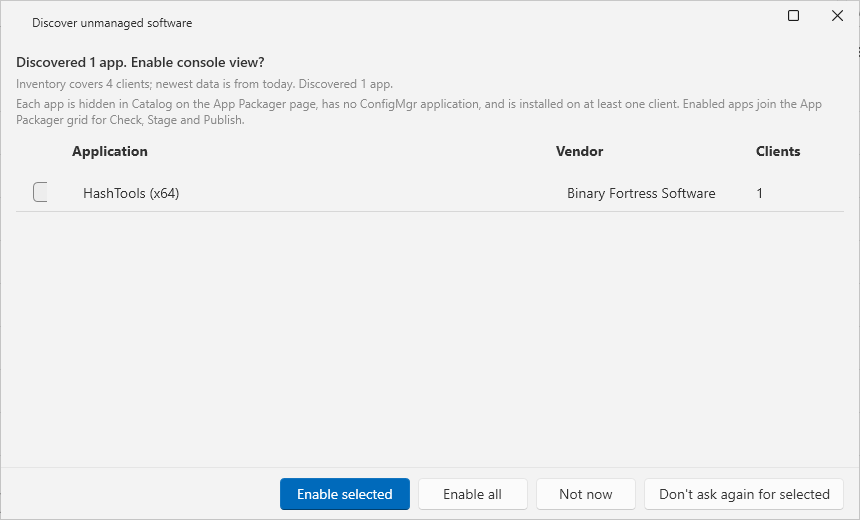
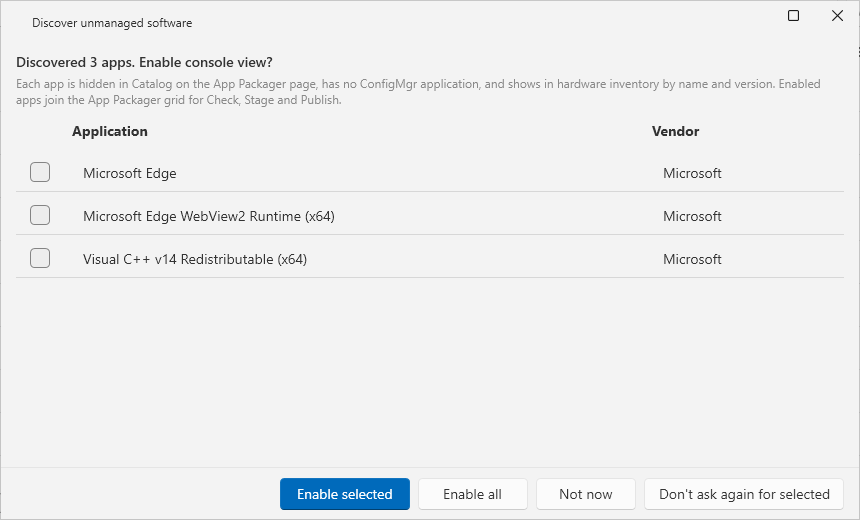
Fix four UI defects found in the screenshot audit and retake the guide images that show changed windows

diff --git a/src/ApplicationPackagerUI/Views/Windows/DiscoveryWindow.xaml b/src/ApplicationPackagerUI/Views/Windows/DiscoveryWindow.xaml
@@ -24,7 +24,8 @@
             <TextBlock x:Name="txtPrompt" Text="{Binding PromptText}" FontSize="14" FontWeight="SemiBold" TextWrapping="Wrap"
                        AutomationProperties.AutomationId="txtDiscoverPrompt" Foreground="{DynamicResource TextFillColorPrimaryBrush}" />
             <TextBlock x:Name="txtStatus" Text="{Binding StatusText}" FontSize="12" TextWrapping="Wrap" Margin="0,4,0,0"
-                       AutomationProperties.AutomationId="txtDiscoverStatus" Foreground="{DynamicResource TextFillColorSecondaryBrush}" />
+                       AutomationProperties.AutomationId="txtDiscoverStatus" Foreground="{DynamicResource TextFillColorSecondaryBrush}"
+                       Visibility="{Binding HasStatus, Converter={StaticResource BooleanToVisibilityConverter}}" />
             <TextBlock FontSize="12" TextWrapping="Wrap" Margin="0,4,0,0" Foreground="{DynamicResource TextFillColorSecondaryBrush}"
                        Text="Each app is hidden in Catalog on the App Packager page, has no ConfigMgr application, and shows in hardware inventory by name and version. Enabled apps join the App Packager grid for Check, Stage and Publish." />
             <TextBlock x:Name="txtNote" Text="{Binding NoteText}" FontSize="12" TextWrapping="Wrap" Margin="0,4,0,0"
@@ -46,6 +47,20 @@
                             <Setter Property="AutomationProperties.Name" Value="Include" />
                         </Style>
                     </DataGridTemplateColumn.HeaderStyle>
+                    <!-- The default cell clips the check box in a 48 px column. The cell centers its content and clips nothing. -->
+                    <DataGridTemplateColumn.CellStyle>
+                        <Style TargetType="DataGridCell" BasedOn="{StaticResource {x:Type DataGridCell}}">
+                            <Setter Property="Template">
+                                <Setter.Value>
+                                    <ControlTemplate TargetType="DataGridCell">
+                                        <Grid Background="Transparent">
+                                            <ContentPresenter HorizontalAlignment="Center" VerticalAlignment="Center" />
+                                        </Grid>
+                                    </ControlTemplate>
+                                </Setter.Value>
+                            </Setter>
+                        </Style>
+                    </DataGridTemplateColumn.CellStyle>
                     <DataGridTemplateColumn.CellTemplate>
                         <DataTemplate>
                             <CheckBox IsChecked="{Binding Selected, UpdateSourceTrigger=PropertyChanged}" HorizontalAlignment="Center"

diff --git a/src/ApplicationPackagerUI/Views/Windows/ConvertFromCmWindow.xaml b/src/ApplicationPackagerUI/Views/Windows/ConvertFromCmWindow.xaml
@@ -75,11 +75,11 @@
                 <RowDefinition Height="2*" />
                 <RowDefinition Height="*" />
             </Grid.RowDefinitions>
-            <TextBox Grid.Row="0" Text="{Binding ReportText}" IsReadOnly="True" FontFamily="Consolas" FontSize="12"
+            <ui:TextBox Grid.Row="0" Text="{Binding ReportText}" IsReadOnly="True" PlaceholderText="The plan shows here after you select Preview." FontFamily="Consolas" FontSize="12"
                      TextWrapping="NoWrap" HorizontalScrollBarVisibility="Auto" VerticalScrollBarVisibility="Auto"
                      AcceptsReturn="True" Margin="0,0,0,8"
                      AutomationProperties.AutomationId="txtConvertReport" AutomationProperties.Name="Conversion report" />
-            <TextBox Grid.Row="1" Text="{Binding LogText}" IsReadOnly="True" FontFamily="Consolas" FontSize="12"
+            <ui:TextBox Grid.Row="1" Text="{Binding LogText}" IsReadOnly="True" PlaceholderText="The progress of each step shows here." FontFamily="Consolas" FontSize="12"
                      TextWrapping="NoWrap" HorizontalScrollBarVisibility="Auto" VerticalScrollBarVisibility="Auto"
                      AcceptsReturn="True"
                      AutomationProperties.AutomationId="txtConvertLog" AutomationProperties.Name="Progress log" />

diff --git a/tests/ApplicationPackagerEngine.Tests/DiscoveryWindowTests.cs b/tests/ApplicationPackagerEngine.Tests/DiscoveryWindowTests.cs
@@ -87,6 +87,37 @@ public sealed class DiscoveryWindowTests
         });
     }
 
+    [Theory]
+    [InlineData(ApplicationTheme.Light)]
+    [InlineData(ApplicationTheme.Dark)]
+    public void TheCheckBoxOfARowIsNotClippedByItsCell(ApplicationTheme theme)
+    {
+        var gridMarkup = Named(Markup(), "gridDiscover").ToString();
+        var hostMarkup =
+            "<Grid xmlns=\"http://schemas.microsoft.com/winfx/2006/xaml/presentation\" xmlns:ui=\"http://schemas.lepo.co/wpfui/2022/xaml\">"
+            + "<Grid.Resources><ResourceDictionary><ResourceDictionary.MergedDictionaries>"
+            + $"<ui:ThemesDictionary Theme=\"{theme}\" /><ui:ControlsDictionary />"
+            + "</ResourceDictionary.MergedDictionaries></ResourceDictionary></Grid.Resources>"
+            + gridMarkup + "</Grid>";
+        RunSta(() =>
+        {
+            var host = (Grid)System.Windows.Markup.XamlReader.Parse(hostMarkup);
+            var grid = host.Children.OfType<DataGrid>().Single();
+            grid.ItemsSource = new DiscoveryDialogViewModel([new DiscoveryCandidate("a", "A", "V", "A app")], "").Rows;
+            host.Measure(new Size(600, 300));
+            host.Arrange(new Rect(0, 0, 600, 300));
+            host.UpdateLayout();
+
+            var box = Descendants(grid).OfType<System.Windows.Controls.CheckBox>().Single();
+            var cell = Descendants(grid).OfType<System.Windows.Controls.DataGridCell>().First(c => c.Column is DataGridTemplateColumn);
+            var bounds = box.TransformToAncestor(cell).TransformBounds(new Rect(0, 0, box.ActualWidth, box.ActualHeight));
+            Assert.True(bounds.Left >= 0 && bounds.Right <= cell.ActualWidth,
+                $"The check box spans {bounds.Left}..{bounds.Right} in a cell of width {cell.ActualWidth}.");
+            // The default cell template padded the box to 36 px and cut the 20 px glyph on the right; the centered cell gives it 42 px.
+            Assert.True(box.ActualWidth >= 40, $"The check box is {box.ActualWidth} px wide.");
+        });
+    }
+
     private static string Describe(System.Windows.Media.Brush? brush) => brush switch
     {
         null => "none",

diff --git a/tests/ApplicationPackagerEngine.Tests/Update/UpdateViewModelTests.cs b/tests/ApplicationPackagerEngine.Tests/Update/UpdateViewModelTests.cs
@@ -60,7 +60,7 @@ public sealed class UpdateViewModelTests : IDisposable
                 ? new HttpResponseMessage(HttpStatusCode.OK) { Content = new StringContent(sums) }
                 : new HttpResponseMessage(HttpStatusCode.OK) { Content = new ByteArrayContent(Setup) };
         });
-        var service = new UpdateService(handler, new Signature(new SignatureInfo(status, "CN=Jason Ulbright", true)),
+        var service = new UpdateService(handler, new Signature(new SignatureInfo(status, "CN=Jason Ulbright, O=Jason Ulbright, L=Apex, S=nc, C=US", true)),
             newFolder: () => Path.Combine(_root, Guid.NewGuid().ToString("N")));
         var vm = new UpdateViewModel(service, "2026.1103.3", path => { launched.Add(path); return launchWorks; }, () => shutdowns[0]++);
         return (vm, launched, shutdowns);
@@ -96,6 +96,10 @@ public sealed class UpdateViewModelTests : IDisposable
         Assert.Empty(launched);
         Assert.Equal(0, shutdowns[0]);
         Assert.True(vm.InstallCommand.CanExecute(null));
+        // The status names the signer, not the whole certificate subject (city, state, country).
+        Assert.Contains("Jason Ulbright signed the file", vm.StatusText);
+        Assert.DoesNotContain("O=", vm.StatusText);
+        Assert.DoesNotContain("Apex", vm.StatusText);
     }
 
     [Fact]

diff --git a/src/ApplicationPackagerUI/ViewModels/Windows/ConvertFromCmViewModel.cs b/src/ApplicationPackagerUI/ViewModels/Windows/ConvertFromCmViewModel.cs
@@ -73,6 +73,10 @@ public sealed partial class ConvertFromCmViewModel : ObservableObject
 
     private bool CanStart() => Idle && !string.IsNullOrWhiteSpace(ApplicationName);
 
+    /// <summary>The status line after a preview: "1 of 1 deployment type converts", "2 of 3 deployment types convert".</summary>
+    public static string PreviewStatus(int converting, int total) =>
+        $"Preview: {converting} of {total} deployment {(total == 1 ? "type converts" : "types convert")}. Nothing was written.";
+
     [RelayCommand(CanExecute = nameof(CanStart))]
     private async Task PreviewAsync()
     {
@@ -80,7 +84,7 @@ public sealed partial class ConvertFromCmViewModel : ObservableObject
         {
             var outcome = await _runner.PreviewAsync(Request(null), log, token);
             ReportText = outcome.Report;
-            StatusText = $"Preview: {outcome.Plan.DeploymentTypes.Count(d => d.Convert)} of {outcome.Plan.DeploymentTypes.Count} deployment types convert. Nothing was written.";
+            StatusText = PreviewStatus(outcome.Plan.DeploymentTypes.Count(d => d.Convert), outcome.Plan.DeploymentTypes.Count);
         });
     }
 

diff --git a/src/ApplicationPackagerUI/ViewModels/Windows/DiscoveryDialogViewModel.cs b/src/ApplicationPackagerUI/ViewModels/Windows/DiscoveryDialogViewModel.cs
@@ -41,6 +41,9 @@ public sealed partial class DiscoveryDialogViewModel : ObservableObject
     public string PromptText { get; }
     public string StatusText { get; }
 
+    /// <summary>False when the status line only repeats the count that the prompt already shows.</summary>
+    public bool HasStatus => StatusText.Length > 0;
+
     [ObservableProperty] private string _noteText = "";
 
     public bool HasNote => NoteText.Length > 0;
@@ -63,8 +66,11 @@ public sealed partial class DiscoveryDialogViewModel : ObservableObject
                 Vendor = c.Vendor
             }));
         PromptText = PromptFor(Rows.Count);
-        StatusText = statusText ?? "";
+        StatusText = string.Equals(statusText, DiscoveredLine(Rows.Count), StringComparison.Ordinal) ? "" : statusText ?? "";
     }
+
+    /// <summary>The plain count line of the scan: the prompt carries it already.</summary>
+    private static string DiscoveredLine(int count) => $"Discovered {count} {(count == 1 ? "app" : "apps")}.";
 
     public static string PromptFor(int count) =>
         $"Discovered {count} {(count == 1 ? "app" : "apps")}. Enable console view?";

diff --git a/tests/ApplicationPackagerEngine.Tests/DiscoverUnmanagedTests.cs b/tests/ApplicationPackagerEngine.Tests/DiscoverUnmanagedTests.cs
@@ -272,7 +272,8 @@ public sealed class DiscoveryDialogViewModelTests
         Assert.Equal("Microsoft Edge", vm.Rows[1].Name);
         Assert.Equal("Vendor grepwin", vm.Rows[0].Vendor);
         Assert.DoesNotContain(typeof(DiscoveryCandidateRow).GetProperties(), p => p.Name.Contains("Client", StringComparison.Ordinal));
-        Assert.Equal("Discovered 2 apps.", vm.StatusText);
+        Assert.Equal("", vm.StatusText);
+        Assert.False(vm.HasStatus);
         Assert.All(vm.Rows, r => Assert.False(r.Selected));
     }
 
@@ -632,7 +633,7 @@ public sealed class DiscoveryRunnerTests
         Assert.Equal(1, r.SettingsChanges);
         Assert.Equal("1 app(s) added to the grid.", r.Status[^1]);
         Assert.Equal("Discovered 2 apps. Enable console view?", prompt.Shown!.PromptText);
-        Assert.Equal(TwoCandidates().StatusText, prompt.Shown.StatusText);
+        Assert.False(prompt.Shown.HasStatus);
     }
 
     [Fact]

diff --git a/src/ApplicationPackagerUI/ViewModels/Windows/UpdateViewModel.cs b/src/ApplicationPackagerUI/ViewModels/Windows/UpdateViewModel.cs
@@ -103,7 +103,7 @@ public sealed partial class UpdateViewModel : ObservableObject
         {
             _verified = await _service.DownloadAsync(_release,
                 (read, total) => Progress = total > 0 ? Math.Min(100.0, read * 100.0 / total) : 0, _cts.Token);
-            StatusText = $"Version {_verified.Version} is downloaded. The checksum and the signature of {_verified.Subject} match. " +
+            StatusText = $"Version {_verified.Version} is downloaded. The checksum matches, and {UpdateSignaturePolicy.SignerCommonName} signed the file with a valid, timestamped signature. " +
                          "Click Install and close to run the installer. The app closes first.";
             Stage = UpdateStage.Ready;
         }

diff --git a/tests/ApplicationPackagerEngine.Tests/CmImport/ConvertFromCmViewModelTests.cs b/tests/ApplicationPackagerEngine.Tests/CmImport/ConvertFromCmViewModelTests.cs
@@ -110,6 +110,13 @@ public sealed class ConvertFromCmViewModelTests
         Assert.True(runner.Last.Package);
     }
 
+    [Theory]
+    [InlineData(1, 1, "Preview: 1 of 1 deployment type converts. Nothing was written.")]
+    [InlineData(2, 3, "Preview: 2 of 3 deployment types convert. Nothing was written.")]
+    [InlineData(0, 2, "Preview: 0 of 2 deployment types convert. Nothing was written.")]
+    public void ThePreviewStatusAgreesWithTheCount(int converting, int total, string expected) =>
+        Assert.Equal(expected, ConvertFromCmViewModel.PreviewStatus(converting, total));
+
     [Fact]
     public async Task AFailureBecomesAStatusLineAndTheWindowIsUsableAgain()
     {

diff --git a/docs/core/convert-from-configmgr.md b/docs/core/convert-from-configmgr.md
@@ -37,10 +37,12 @@ BLUF: **Convert from ConfigMgr** reads one ConfigMgr application from the site a
 3. Enter the application name in **Application name**.
 4. Check the **Output folder**. The default is the folder `CmImport` in your download folder. Each application gets its own folder inside it.
 5. Set the options (table below).
-6. Select **Preview**. The report shows the plan. The status line shows how many deployment types convert, for example `Preview: 2 of 3 deployment types convert. Nothing was written.`
+6. Select **Preview**. The report shows the plan. The status line shows how many deployment types convert, for example `Preview: 1 of 1 deployment type converts. Nothing was written.`
 7. Read the report. Fix what blocks a deployment type, or accept what is marked for review.
 8. Select **Convert**. The log shows each step. Select **Cancel** to stop. Closing the window also stops the run. The content copy does not stop at once: the copy of the deployment type that is running can finish before the run stops.
 9. Read the status line. It shows `Done: <N> app(s) staged in <folder>`, with the number of packages built and published when you asked for them.
+
+![The Convert from ConfigMgr window after a preview](../images/core-convert-window.png)
 
 ## Options
 
@@ -94,7 +96,7 @@ Examples: `DetectionMissing`, `InstallCommandMissing`, `SetupFileNotFound` and `
 
 - The conversion reads from the site. It writes only to the output folder, to the Intune tenant when you publish, and to the tool folder when it downloads the content prep tool.
 - It does not create assignments, dependencies or supersedence.
-- It was tested against fixtures and a fake site session. It has not run against a production site or tenant. Run **Preview** first and check each published app.
+- **Preview** ran against the lab ConfigMgr site and read a real application. **Convert**, the build and the publish ran only against fixtures and fake sessions. None of them ran against a production site or an Intune tenant. Run **Preview** first and check each published app.
 - The conversion uses Microsoft Graph v1.0 only. The `arm64` architecture value goes through `allowedArchitectures`. The report asks you to check the app on an ARM64 device (`Arm64ValueUnverified`).
 
 ## Links

diff --git a/docs/core/updates.md b/docs/core/updates.md
@@ -17,8 +17,12 @@ BLUF: App Packager Desktop checks GitHub for a newer release. It downloads the s
 
 1. Open **Settings**. In the **Updates** section, select **Check for updates**. The update window opens and checks at once.
 2. Read the latest version and the release notes. Select **Open the release page** to see the full notes.
+
+![The update window with a newer version available](../images/core-update-available.png)
 3. Select **Download**. The app downloads `AppPackagerDesktop-Setup-<version>.exe` and `checksums.txt` into a new empty folder in the temporary folder of your account.
-4. The app checks the file. The status line says that the checksum and the signature match.
+4. The app checks the file. The status line says that the checksum matches and that `Jason Ulbright` signed the file with a valid, timestamped signature.
+
+![The update window after the download and the checks](../images/core-update-ready.png)
 5. Select **Install and close**. The app closes and starts the installer. The installer asks for the usual confirmations.
 
 ## The startup check

diff --git a/CHANGELOG.md b/CHANGELOG.md
@@ -2,8 +2,16 @@
 
 ## [Unreleased]
 
+### Fixed
+
+- Show the whole check box in the Discover unmanaged software list. The default cell clipped its right side.
+- Drop the second "Discovered N apps." line from the Discover prompt. It repeated the title.
+- Write "1 of 1 deployment type converts" in the Convert from ConfigMgr preview, and show hint text in its empty plan and log boxes.
+- Name only the signer (`Jason Ulbright`) in the update window after a download. It showed the city, state and country of the certificate too.
+
 ### Changed
 
+- Retake the guide images that show the App Packager page, the Settings page, the Discover prompt and the About section. Add images of the Convert from ConfigMgr window and the update window.
 - Describe Discover unmanaged software as it works now: names and versions only, no client count and no Clients column. Add the page for Convert from ConfigMgr.
 
 ## [2026.1106.4] - 2026-11-06
